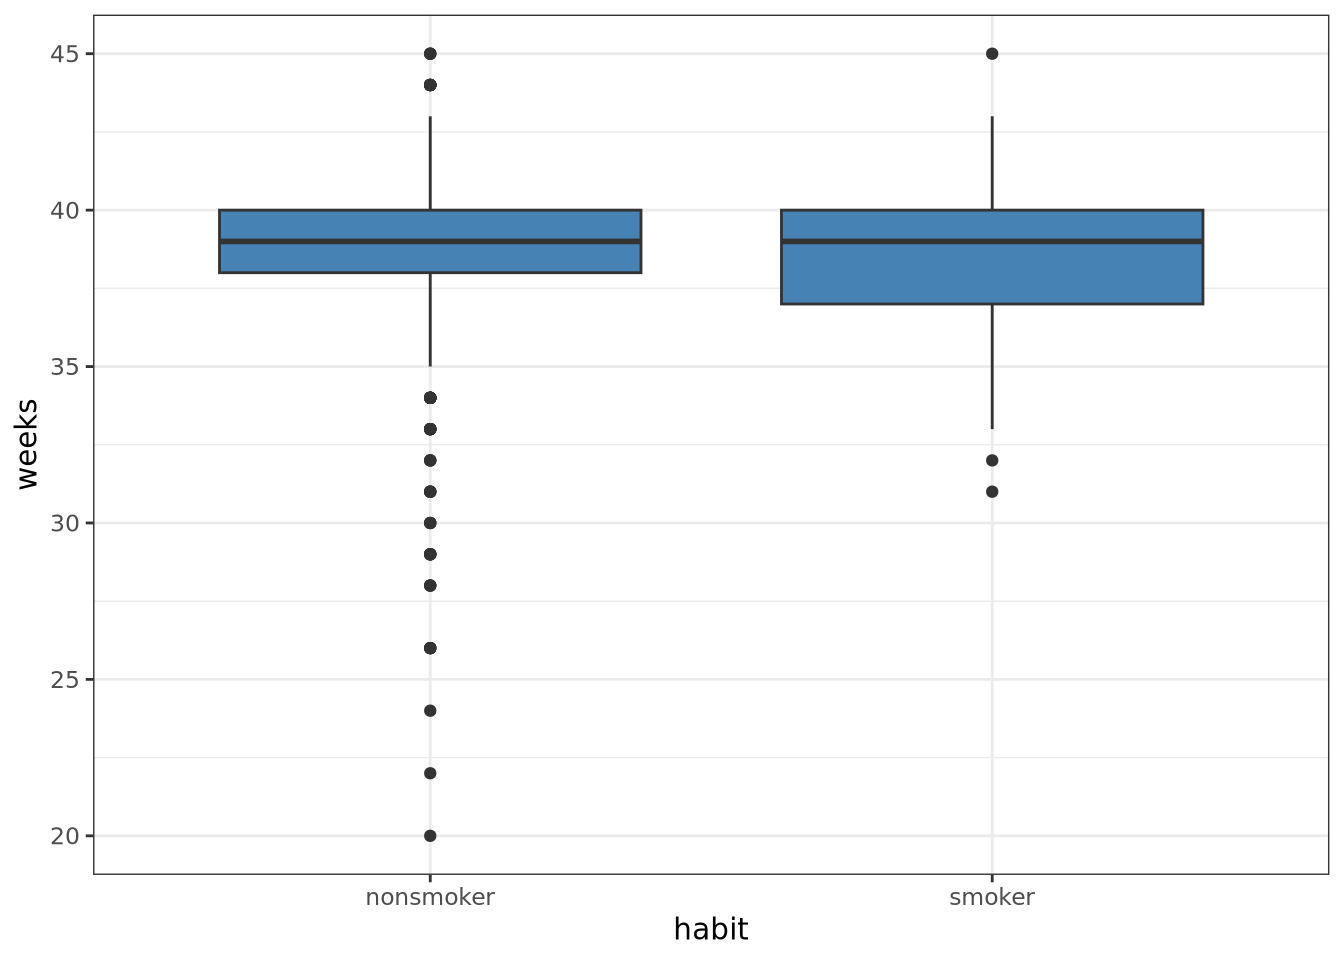
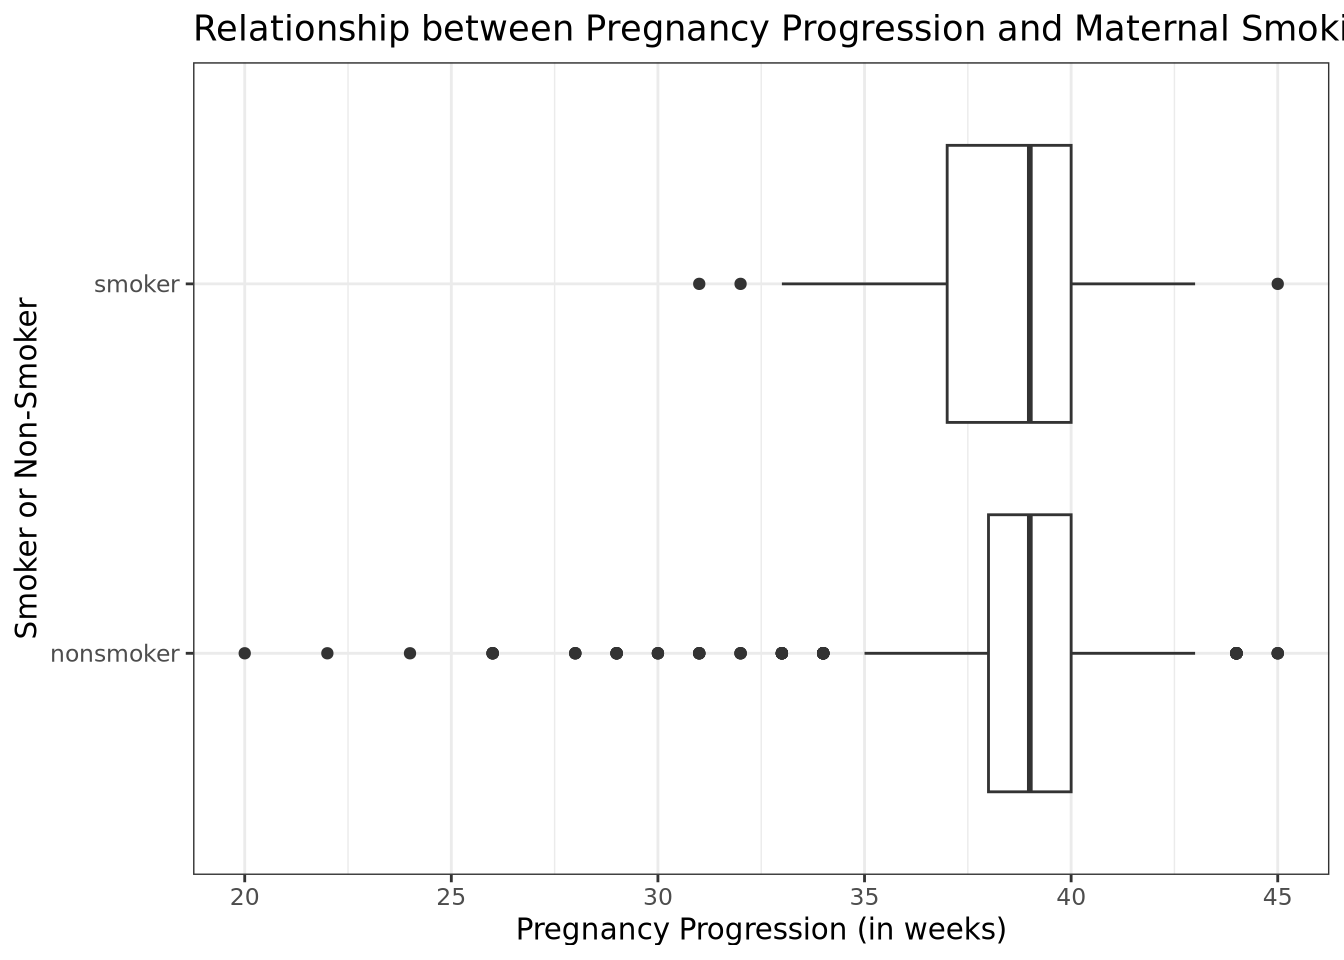
Answered question #10 and created a boxplot.

diff --git a/PS02_source.html b/PS02_source.html
@@ -98,7 +98,7 @@ pre > code.sourceCode > span > a:first-child::before { text-decoration: underlin
     <div>
     <div class="quarto-title-meta-heading">Published</div>
     <div class="quarto-title-meta-contents">
-      <p class="date">Last modified on August 31, 2023 11:03:50 Eastern Daylight Time</p>
+      <p class="date">Last modified on August 31, 2023 11:14:36 Eastern Daylight Time</p>
     </div>
   </div>
   
@@ -892,10 +892,19 @@ Problem 10 Answers
 <div id="callout-33" class="callout-33-contents callout-collapse collapse show">
 <div class="callout-body-container callout-body">
 <div class="cell" data-layout-align="center">
-<div class="sourceCode cell-code" id="cb21"><pre class="sourceCode r code-with-copy"><code class="sourceCode r"><span id="cb21-1"><a href="#cb21-1" aria-hidden="true" tabindex="-1"></a><span class="co"># Type your code and comments inside the code chunk</span></span></code><button title="Copy to Clipboard" class="code-copy-button"><i class="bi"></i></button></pre></div>
+<div class="sourceCode cell-code" id="cb21"><pre class="sourceCode r code-with-copy"><code class="sourceCode r"><span id="cb21-1"><a href="#cb21-1" aria-hidden="true" tabindex="-1"></a><span class="fu">ggplot</span>(<span class="at">data =</span> nc, <span class="fu">aes</span>(<span class="at">x =</span> weeks, <span class="at">y =</span> habit)) <span class="sc">+</span> <span class="fu">labs</span>(<span class="at">x =</span> <span class="st">"Pregnancy Progression (in weeks)"</span>, <span class="at">y =</span> <span class="st">"Smoker or Non-Smoker"</span>, <span class="at">title =</span> <span class="st">"Relationship between Pregnancy Progression and Maternal Smoking Habits"</span>) <span class="sc">+</span></span>
+<span id="cb21-2"><a href="#cb21-2" aria-hidden="true" tabindex="-1"></a>  <span class="fu">geom_boxplot</span>() <span class="sc">+</span> </span>
+<span id="cb21-3"><a href="#cb21-3" aria-hidden="true" tabindex="-1"></a>  <span class="fu">theme_bw</span>()</span></code><button title="Copy to Clipboard" class="code-copy-button"><i class="bi"></i></button></pre></div>
+<div class="cell-output-display">
+<div class="quarto-figure quarto-figure-center">
+<figure class="figure">
+<p><img src="PS02_source_files/figure-html/unnamed-chunk-21-1.png" class="img-fluid figure-img" width="672"></p>
+</figure>
+</div>
+</div>
 </div>
 <ul>
-<li>Delete this and put your text answer here.</li>
+<li>In terms of spread throughout the entire boxplot, including outliers, non-smoking mothers have more variable. In terms of inside the boxplots and the averages, smoking mothers have more variable.</li>
 </ul>
 </div>
 </div>
